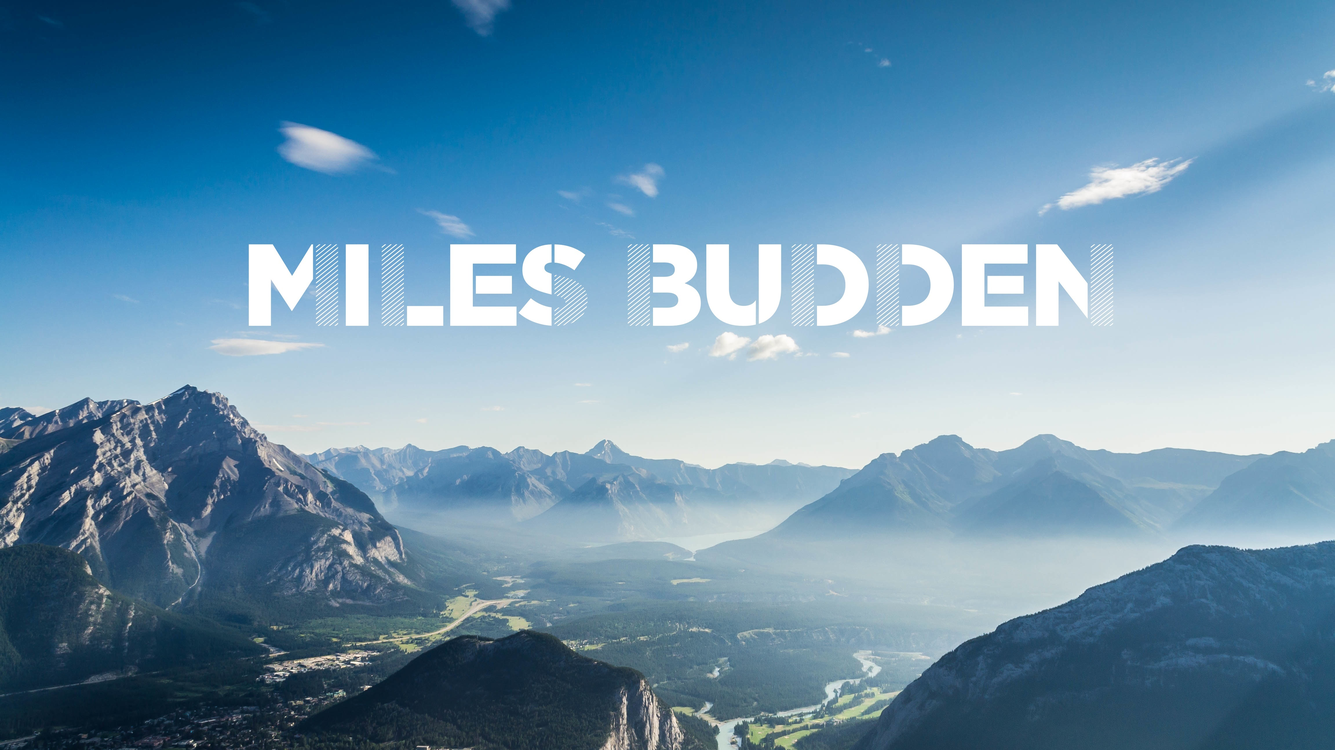
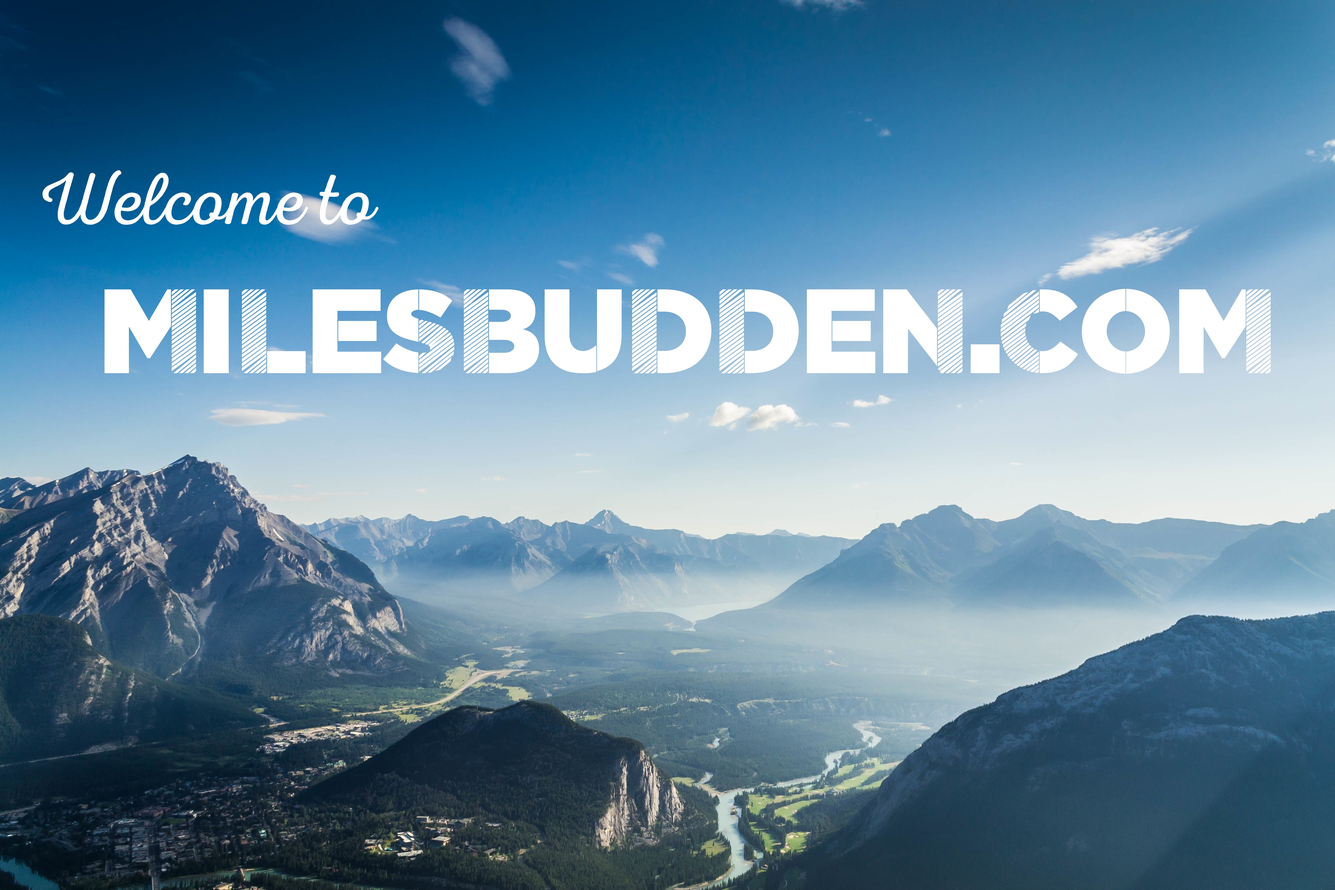
CHANGED THE PIC

diff --git a/index.html b/index.html
@@ -2,128 +2,11 @@
 <html>
 
 <head>
-    <!--Import Google Icon Font-->
-    <link href="http://fonts.googleapis.com/icon?family=Material+Icons" rel="stylesheet">
-    <!--Import materialize.css-->
-    <link type="text/css" rel="stylesheet" href="css/materialize.min.css" media="screen,projection" />
     <link type="text/css" rel="stylesheet" href="css/main.css" />
-
-    <!--Let browser know website is optimized for mobile-->
-    <meta name="viewport" content="width=device-width, initial-scale=1.0" />
 </head>
 
 <body>
-    <!--Import jQuery before materialize.js-->
-    <script type="text/javascript" src="https://code.jquery.com/jquery-2.1.1.min.js"></script>
-    <script type="text/javascript" src="js/materialize.min.js"></script>
 
-    <img class="responsive-img" src="images/miles.jpg">
-
-    <div class="container portfolio">
-        <br>
-        <h6>MY CURRENT PROJECTS</h6>
-        <hr>
-        <div class="row">
-            <div class="col s6">
-                <div class="card medium">
-                    <div class="card-image">
-                        <img src="images/refresh.jpg">
-                        <span class="card-title">Refresh</span>
-                    </div>
-                    <div class="card-content">
-                        <p>A revision tool that dynamically generates questions based off of a sylabus.</p>
-                    </div>
-                    <div class="card-action">
-                        <a href="http://subjectrefresh.info/">subjectrefresh.info</a>
-                    </div>
-                </div>
-            </div>
-
-            <div class="col s6">
-                <div class="card medium">
-                    <div class="card-image">
-                        <img src="images/map.jpg">
-                        <span class="card-title">Unnamed CS:GO map</span>
-                    </div>
-                    <div class="card-content">
-                        <p>This is a Counter-Strike: Global Offensive map that is currently in developement.</p>
-                    </div>
-                    <div class="card-action">
-                        <a href="http://steamcommunity.com/sharedfiles/filedetails/?id=484783330">Steam workshop</a>
-                    </div>
-                </div>
-            </div>
-        </div>
-        <h6>MY PREVIOUS PROJECTS</h6>
-        <hr>
-        <div class="row">
-            <div class="col s4">
-                <div class="card small">
-                    <div class="card-image">
-                        <img src="images/muros.jpg">
-                        <span class="card-title">Muros</span>
-                    </div>
-                    <div class="card-content">
-                        <p>A competitive Counter-Strike: Global Offensive map set in the Italien Alps.</p>
-                    </div>
-                    <div class="card-action">
-                        <a href="http://steamcommunity.com/sharedfiles/filedetails/?id=428636308&searchtext=">Steam workshop</a>
-                    </div>
-                </div>
-            </div>
-
-
-            <div class="col s4">
-                <div class="card small">
-                    <div class="card-image">
-                        <img src="images/refresh.jpg">
-                        <span class="card-title">Refresh</span>
-                    </div>
-                    <div class="card-content">
-                        <p>A revision tool that dynamically generates questions based off of a sylabus.</p>
-                    </div>
-                    <div class="card-action">
-                        <a href="https://github.com/SubjectRefresh/Refresh">Github</a>
-                    </div>
-                </div>
-            </div>
-
-
-            <div class="col s4">
-                <div class="card small">
-                    <div class="card-image">
-                        <img src="images/multiplayr.png">
-                        <span class="card-title">Multiplayr</span>
-                    </div>
-                    <div class="card-content">
-                        <p>A tool to see what multiplayer steam games you and your friends have in common.</p>
-                    </div>
-                    <div class="card-action">
-                        <a href="http://jokerstoxin.com/steamcalculator/">JOKERSTOXIN.COM</a>
-                    </div>
-                </div>
-            </div>
-        </div>
-        <h6>CONTACT ME</h6>
-        <hr>
-        <a href="mailto:miles@budden.net">miles@budden.net</a>
-
-
-
-
-    </div>
-    <footer class="page-footer deep-orange lighten-2 z-depth-2">
-        <div class="footer-copyright deep-orange lighten-2">
-            <div class="container">
-                © 2015 Miles Budden
-            </div>
-        </div>
-    </footer>
-    <script>
-        $(document).ready(function () {
-            $('.parallax').parallax();
-        });
-    </script>
 </body>
 
 </html>

diff --git a/css/main.css b/css/main.css
@@ -1,30 +1,7 @@
-body,
 html {
-    background-color: #EDEDED !important;
-}
-
-.intro {
-    text-align: center;
-    padding-top: 13%;
-    padding-bottom: 13%;
-    margin-bottom: 50px;
-}
-
-.intro h1 {
-    font-weight: 900;
-    text-transform: uppercase;
-}
-
-.intro h5 {
-    text-transform: uppercase;
-    background-color: #f5f5f5;
-    padding: 10px;
-    color: #333333;
-    display: inline-block;
-    font-size: 1.2rem;
-}
-
-.parallax-window {
-    min-height: 400px;
-    background: transparent;
+    background: url(../images/miles.jpg) no-repeat center center fixed;
+    -webkit-background-size: cover;
+    -moz-background-size: cover;
+    -o-background-size: cover;
+    background-size: cover;
 }
